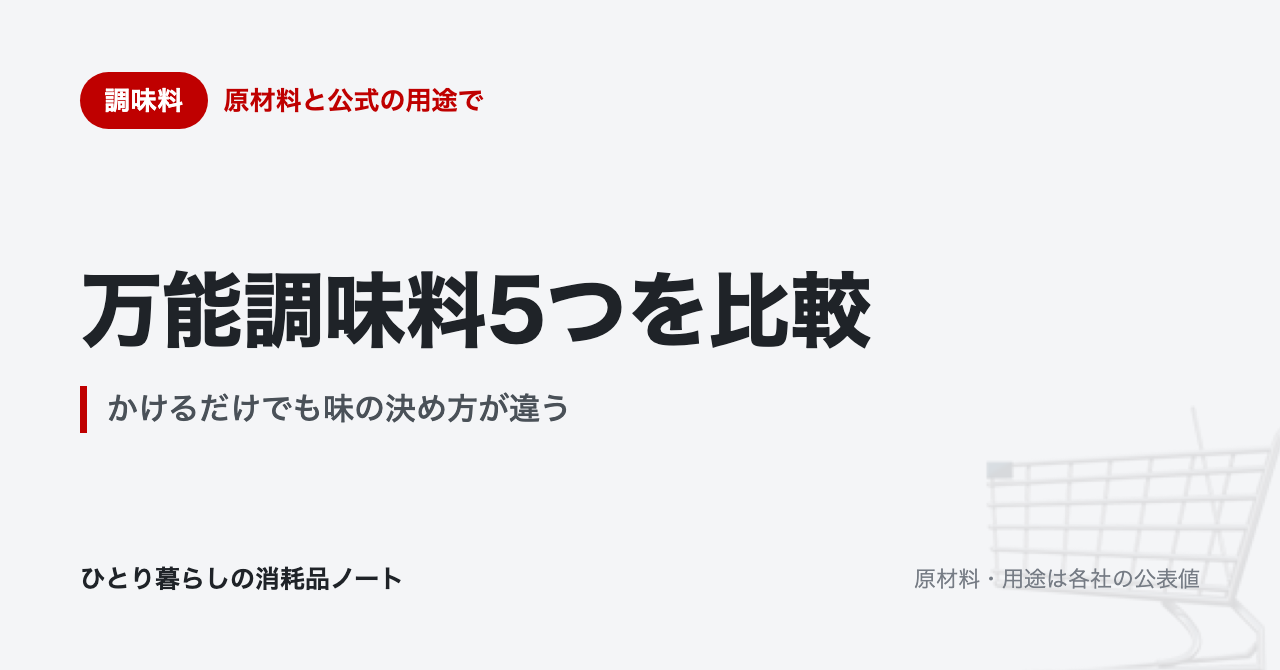
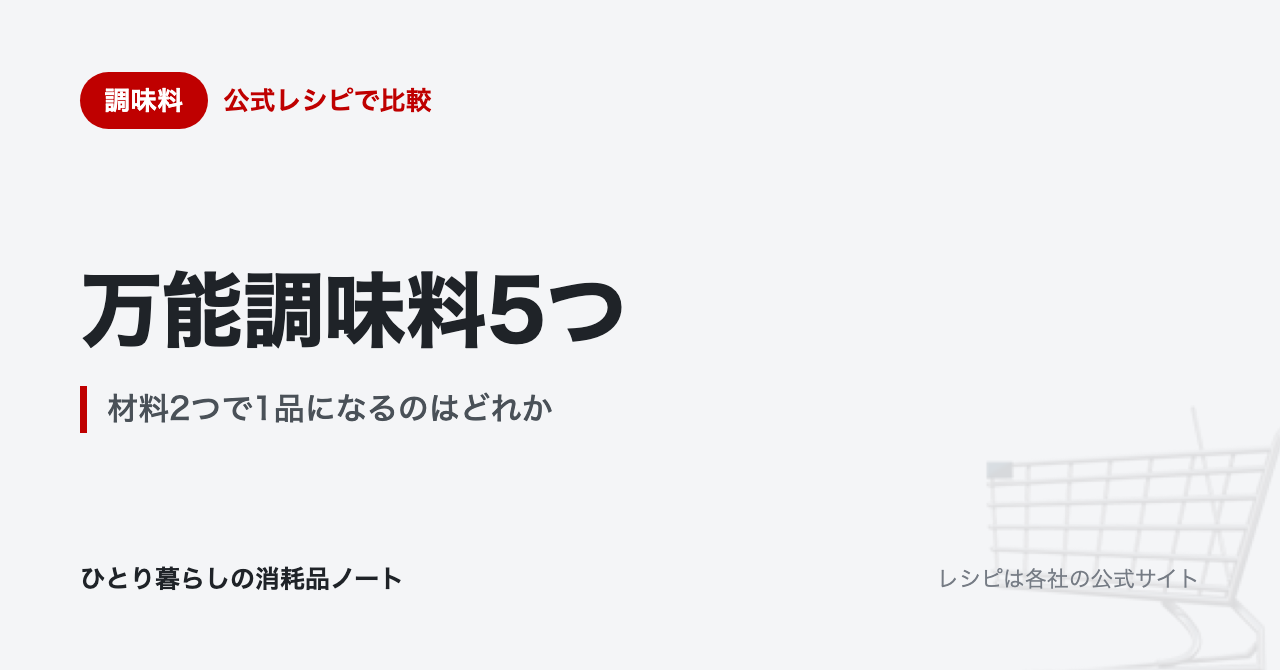
調味料の記事を、公式レシピ軸に全面書き直し
前の版は原材料表示と塩分を並べたスペック表だった。運営者から
「一人暮らしに内容量や原材料はどうでもいい」「公式で案内している
料理の実践はどうか」と指摘を受けて、軸ごと入れ替えた。

各社の公式レシピを引いて、材料の数と手順の数を数えた:
- 創味シャンタン: お湯400mL＋8g、かき混ぜる（材料2・手順1）
- クレイジーソルト: ご飯200g＋1.5g、混ぜて握る（材料2・手順2）
  ※公式レシピはオーガニック版のもの。記事内に明記
- カンタン酢: きゅうり＋100mL、30分漬ける（材料2・手順2）
- ほりにし / 南の極み: 公式に分量つきレシピの掲載なし

「これ1本で味が決まる」には2種類あった。公式が作り方まで示すものと、
かけて終わるのでレシピが要らないもの。そこが選ぶ基準になる。

味の評価は引き続き書いていない（食べ比べていないため）。

diff --git a/content/seasoning-allinone.md b/content/seasoning-allinone.md
@@ -1,6 +1,6 @@
 ---
-title: 万能調味料5つを比較｜かけるだけでも味の決め方が違う
-description: かけるだけで味が決まる万能調味料5つを、メーカー公式の用途と原材料表示で整理しました。カンタン酢・南の極み・ほりにし・クレイジーソルト・創味シャンタン。原材料の1番目を見ると、何で味を決めている調味料かが分かります。味の評価はしていません。
+title: 万能調味料5つ｜材料2つで1品になるのはどれか
+description: かけるだけで味が決まる万能調味料5つを、メーカー公式レシピで比較。創味シャンタンは材料2つ・手順1つ、カンタン酢ときゅうりで手順2つ。ほりにしと南の極みは公式にレシピがありません。何が作れるかで選べるように整理しました。
 category: 調味料
 date: '2026-09-05'
 updated: '2026-09-05'
@@ -8,133 +8,126 @@ keyword: 万能調味料
 keywordAlt: [調味料]
 ---
 
-「これをかけておけば味が決まる」という調味料を5つ調べました。
+「これ1本で味が決まる」と書いてある調味料を買っても、**結局それで何を作るのかが分からない**まま棚に残ります。
 
-**先に断っておきます。この記事に「おいしい」とは書きません。** 私はこの5つを食べ比べていないので、書けば嘘になります。
+そこで5つについて、**メーカーが公式に出しているレシピ**を引いてきました。材料が何個で、手順が何回かまで数えています。
 
-代わりに原材料表示とメーカー公式の用途を並べました。かけるだけの調味料でも、**何で味を決めているかは全部違います**。そこが分かれば、自分の料理に合うものは選べます。
+**先に結論。いちばん手が少ないのは創味シャンタンでした。** お湯400mLに8gを入れてかき混ぜるだけで、スープが1品できます。
 
-## 万能調味料5つは、味の決め方が違う
+## 万能調味料5つ、公式レシピで作れるもの
 
-| 商品 | 価格 | 何で味を決めているか | 原材料の1番目 |
-|---|---|---|---|
-| [ミツカン カンタン酢 1L](https://hb.afl.rakuten.co.jp/hgc/g00r136m.p2w40bcb.g00r136m.p2w41b76/?pc=https%3A%2F%2Fitem.rakuten.co.jp%2Frakuten24%2Fe365945h%2F&m=http%3A%2F%2Fm.rakuten.co.jp%2Frakuten24%2Fi%2F10318308%2F&rafcid=wsc_i_is_eba6f22c-fbb8-45a0-b880-b4616efeee39) | 813円 | 酸味と甘み | 食酢 |
-| [南の極み 天日塩 さらさら小粒 500g](https://hb.afl.rakuten.co.jp/hgc/g00txs3m.p2w40cd7.g00txs3m.p2w41100/?pc=https%3A%2F%2Fitem.rakuten.co.jp%2Ftoppo888%2F10001539%2F&m=http%3A%2F%2Fm.rakuten.co.jp%2Ftoppo888%2Fi%2F10005916%2F&rafcid=wsc_i_is_eba6f22c-fbb8-45a0-b880-b4616efeee39) | 928円 | 塩だけ | 海水 |
-| [アウトドアスパイス ほりにし 100g](https://hb.afl.rakuten.co.jp/hgc/g00rynym.p2w4091a.g00rynym.p2w41d56/?pc=https%3A%2F%2Fitem.rakuten.co.jp%2Fhighball%2Fhorinishi-001%2F&m=http%3A%2F%2Fm.rakuten.co.jp%2Fhighball%2Fi%2F10223075%2F&rafcid=wsc_i_is_eba6f22c-fbb8-45a0-b880-b4616efeee39) | 864円 | 塩とスパイス21種 | 食塩 |
-| [ジェーン クレイジーソルト 100g](https://hb.afl.rakuten.co.jp/hgc/g00q6lsm.p2w40449.g00q6lsm.p2w41738/?pc=https%3A%2F%2Fitem.rakuten.co.jp%2Fkitchen-garden%2F793441%2F&m=http%3A%2F%2Fm.rakuten.co.jp%2Fkitchen-garden%2Fi%2F10000524%2F&rafcid=wsc_i_is_eba6f22c-fbb8-45a0-b880-b4616efeee39) | 798円 | 岩塩とハーブ6種 | 岩塩 |
-| [創味シャンタン 粉末 500g](https://hb.afl.rakuten.co.jp/hgc/g00qq97m.p2w40c38.g00qq97m.p2w41053/?pc=https%3A%2F%2Fitem.rakuten.co.jp%2Fauc-plumterrace%2Fsoumisyantan500%2F&m=http%3A%2F%2Fm.rakuten.co.jp%2Fauc-plumterrace%2Fi%2F10001960%2F&rafcid=wsc_i_is_eba6f22c-fbb8-45a0-b880-b4616efeee39) | 1,290円 | うま味 | 食塩 |
+| 商品 | 価格 | 公式レシピ | 材料 | 手順 |
+|---|---|---|---|---|
+| [創味シャンタン 粉末 500g](https://hb.afl.rakuten.co.jp/hgc/g00qq97m.p2w40c38.g00qq97m.p2w41053/?pc=https%3A%2F%2Fitem.rakuten.co.jp%2Fauc-plumterrace%2Fsoumisyantan500%2F&m=http%3A%2F%2Fm.rakuten.co.jp%2Fauc-plumterrace%2Fi%2F10001960%2F&rafcid=wsc_i_is_eba6f22c-fbb8-45a0-b880-b4616efeee39) | 1,290円 | チャーハンについてくるスープ | 2つ | **1回** |
+| [ジェーン クレイジーソルト 100g](https://hb.afl.rakuten.co.jp/hgc/g00q6lsm.p2w40449.g00q6lsm.p2w41738/?pc=https%3A%2F%2Fitem.rakuten.co.jp%2Fkitchen-garden%2F793441%2F&m=http%3A%2F%2Fm.rakuten.co.jp%2Fkitchen-garden%2Fi%2F10000524%2F&rafcid=wsc_i_is_eba6f22c-fbb8-45a0-b880-b4616efeee39) | 798円 | クレイジーソルトのおにぎり | 2つ | 2回 |
+| [ミツカン カンタン酢 1L](https://hb.afl.rakuten.co.jp/hgc/g00r136m.p2w40bcb.g00r136m.p2w41b76/?pc=https%3A%2F%2Fitem.rakuten.co.jp%2Frakuten24%2Fe365945h%2F&m=http%3A%2F%2Fm.rakuten.co.jp%2Frakuten24%2Fi%2F10318308%2F&rafcid=wsc_i_is_eba6f22c-fbb8-45a0-b880-b4616efeee39) | 813円 | きゅうりのピクルス | 2つ | 2回（＋漬け30分） |
+| [アウトドアスパイス ほりにし 100g](https://hb.afl.rakuten.co.jp/hgc/g00rynym.p2w4091a.g00rynym.p2w41d56/?pc=https%3A%2F%2Fitem.rakuten.co.jp%2Fhighball%2Fhorinishi-001%2F&m=http%3A%2F%2Fm.rakuten.co.jp%2Fhighball%2Fi%2F10223075%2F&rafcid=wsc_i_is_eba6f22c-fbb8-45a0-b880-b4616efeee39) | 864円 | 公式サイトに掲載なし | — | — |
+| [南の極み 天日塩 さらさら小粒 500g](https://hb.afl.rakuten.co.jp/hgc/g00txs3m.p2w40cd7.g00txs3m.p2w41100/?pc=https%3A%2F%2Fitem.rakuten.co.jp%2Ftoppo888%2F10001539%2F&m=http%3A%2F%2Fm.rakuten.co.jp%2Ftoppo888%2Fi%2F10005916%2F&rafcid=wsc_i_is_eba6f22c-fbb8-45a0-b880-b4616efeee39) | 928円 | 公式サイトに掲載なし | — | — |
 
-> **この記事でやっていないこと**：味の食べ比べです。私はこの5つを比較して食べていないので、おいしさの順位は付けていません。書いているのは、メーカーが公表している原材料と用途だけです。
+> **材料の数え方**：調味料そのものを1つに数えています。「お好みで」と書かれている具材は数えていません。
 >
-> **価格は2026年9月5日時点**のもので、変動します。内容量が商品ごとに違うので、価格をそのまま比べても意味はありません。
+> **価格は2026年9月5日時点**のものです。内容量が商品ごとに違うので、価格をそのまま比べても意味はありません。
 
-## 原材料の1番目を見ると、性格が分かる
+## 創味シャンタン：お湯に入れてかき混ぜるだけ
 
-原材料表示は**使っている量が多い順**に並びます。つまり1番目を見れば、その調味料が何でできているかが分かります。
-
-```
-カンタン酢     食酢（醸造酢、米酢、りんご酢）
-南の極み      海水
-ほりにし      食塩
-クレイジーソルト  岩塩
-創味シャンタン   食塩（国内製造）
-```
-
-**5つのうち3つは、いちばん多い成分が塩です。** 「かけるだけで味が決まる」の正体は、多くの場合まず塩でした。
-
-そのうえで、塩に何を足しているかが分かれます。
-
-- **ほりにし**：食塩、ガーリック、黒コショウ、レッドベルペッパー、粉末醤油、コリアンダーなど21種類。醤油とチキン調味料が入るので和風寄りです
-- **クレイジーソルト**：岩塩、オニオン、ブラックペッパー、ガーリック、セロリシード、タイム、オレガノの7つだけ。ハーブが立ちます
-- **創味シャンタン**：食塩のあとにデキストリン、動物油脂、砂糖、畜肉エキス。油と肉のうま味を足しているのがこの中では独特です
-
-**南の極みだけ、原材料が1つです。** オーストラリアの塩田で海水を1年以上かけて濃縮した天日塩で、固結防止剤も入っていません（参考: [南の極み｜日仏貿易](https://nbkk.co.jp/minaminokiwami/)）。ただし公式サイトには「固結防止剤を含んでいないため、空気中の湿気をすって固まってしまうことがございます」とも書かれています。
-
-カンタン酢は、この中で唯一「塩が主役ではない」商品です。食酢に糖類と昆布だしを合わせてあり、酸味で味を決めます。
-
-## 塩分は、単位がそろっていません
-
-かけるだけの調味料なので塩分を並べようとしたのですが、**各社の表示の単位が違って、そのままでは比べられませんでした。**
-
-| 商品 | 公表されている食塩相当量 | 表示の単位 |
-|---|---|---|
-| ほりにし | 45.8g | 100gあたり |
-| 創味シャンタン 粉末 | 1.0g | 小さじ1（2.5g）あたり |
-| カンタン酢 | 0.71g | 大さじ1（15mL）あたり |
-| クレイジーソルト | 公式サイトに記載を確認できませんでした | — |
-| 南の極み | 公式サイトに記載を確認できませんでした | — |
-
-粉のもの2つは重さが基準なので、そろえられます。創味シャンタンの小さじ1で1.0gは、100gあたりに直すと40.0gです。
+創味食品が出している「チャーハンについてくるスープ」が、今回でいちばん手が少ないレシピでした。
 
 ```
-ほりにし     100gあたり 45.8g
-創味シャンタン  100gあたり 40.0g（小さじ1で1.0g からの換算）
+材料（2人前）  創味シャンタン 8g ／ お湯 400mL
+作り方      お湯に入れてかき混ぜる
 ```
 
-**どちらも半分近くが塩**でした。かけるだけで味が決まるのは当然とも言えます。
+火を使いません。 刻みネギや乾燥わかめ、ごま油は「お好み」で、なくても成立します（参考: [チャーハンについてくるスープ｜創味食品](https://www.somi.co.jp/recipe/13439/)）。
 
-カンタン酢は液体なので、重さの基準にそろえられません。この3つを1つの表で順位付けするのは無理です。 大さじ1で0.71gという数字だけ、そのまま受け取ってください。
+炒飯のほうも分量が公開されていて、**ご飯200gと具材に小さじ2杯**（5g）です。ご飯を炒めるついでにスープも作れるので、1本で主食と汁物が埋まります。
 
-## メーカーが挙げている使い方
+## クレイジーソルト：ご飯に混ぜて握るだけ
 
-「何にでも使える」と書いてある商品でも、公式が例に出す料理は違います。
+日本緑茶センターの「クレイジーソルトのおにぎり」です。
 
-| 商品 | 公式が挙げている用途 |
-|---|---|
-| カンタン酢 | 甘酢漬け、酢の物、寿司、ピクルス、マリネ、肉料理 |
-| 南の極み（さらさら小粒） | おにぎり、てんぷら |
-| ほりにし | BBQ、和食、洋食 |
-| クレイジーソルト | サラダ、加熱調理、食材の下ごしらえ |
-| 創味シャンタン 粉末 | 炒飯、炒め物、スープ、ソース、マリネ |
+```
+材料（2個分）  ご飯 200g ／ クレイジーソルト 1.5g
+作り方      ① 温かいご飯に入れて混ぜる
+          ② 2等分にして握る
+```
 
-カンタン酢と創味シャンタンは、分量まで公式が示しています。 カンタン酢は「砂糖、食塩などを合わせる必要がない」調味酢として、創味シャンタンは「炒飯ならご飯200gと具材に小さじ2杯（5g）」と書かれています。
+具はいりません。 塩むすびの塩をこれに変えるだけの形です（参考: [クレイジーソルトのおにぎり｜日本緑茶センター](https://www.jp-greentea.co.jp/recipe/4873/)）。
 
-南の極みは、粒の形で用途を分けています。 今回の「さらさら小粒」はおにぎりや天ぷら向けで、粒が粗いタイプは肉や魚の下味用と案内されています。同じ商品名でも、買う前に粒を確認してください。
+ひとつ注意があります。この公式レシピは「オーガニック クレイジーソルト」を使ったもので、今回の商品は通常版です。同じシリーズの別品番のレシピだと分かったうえで参考にしてください。
+
+## カンタン酢：切って漬けるだけ。ただし30分待つ
+
+ミツカンの「きゅうりのピクルス」です。
+
+```
+材料（2人分）  きゅうり 1と1/2本 ／ カンタン酢 100mL
+作り方      ① 容器の高さに合わせて切り、縦4等分にする
+          ② 容器に入れてカンタン酢を注ぎ、冷蔵庫で30分漬ける
+```
+
+ミツカンは調理時間を5分以内としています。ただし**漬ける30分はここに入っていません**（参考: [きゅうりのピクルス｜ミツカン](https://www.mizkan.co.jp/ouchirecipe/recipe/?menu_id=20230)）。
+
+つまり**食べたい30分前に仕込む必要があります。** 帰ってすぐ食べたい日には向きません。作り置きとして考えるほうが合っています。
+
+火を使うものなら「てりうまチキン」があり、鶏もも肉を焼いてカンタン酢を注ぎ、煮詰めるだけと案内されています。こちらも調味料は1本で済みます。
+
+## ほりにしと南の極みは、公式にレシピがありません
+
+この2つは、公式サイトを見ても分量つきの作り方が出てきませんでした。
+
+**ほりにし**の公式サイトにあるのは「キャンプやBBQの肉料理はもちろん魚・野菜等にもマッチング」という説明までです（参考: [アウトドアスパイスほりにし 公式](https://horinishi.jp/)）。
+
+**南の極み**も、日仏貿易のサイトで案内されているのは用途だけでした。今回の「さらさら小粒」はおにぎり・てんぷら向け、粒が粗いタイプは肉や魚の下味向けと書かれています（参考: [南の極み｜日仏貿易](https://nbkk.co.jp/minaminokiwami/)）。
+
+これは手抜きではなく、性格の違いだと思います。 かけて終わる調味料に、作り方を説明する必要がないからです。
+
+裏を返すと、**この2つは「何を作るか」を自分で決められる人向け**です。焼いた肉や野菜に振る使い方が決まっているなら強いですが、献立から迷っている段階だと手が止まります。
 
 ## この記事で分からないこと
 
-- **どれがおいしいか**：食べ比べていません。味の順位は付けていません
-- **クレイジーソルトと南の極みの塩分**：公式サイトで数値を確認できませんでした。パッケージの表示をご覧ください
-- **1回あたりの金額**：かける量が人によって違うので、出していません。内容量も商品ごとに違います
+- **どれがおいしいか**：私はこの5つを食べ比べていません。味の順位は付けていません
+- **公式レシピ以外の使い道**：ここに載せたのはメーカーが公表しているものだけです。実際にはもっと使えます
+- **ほりにしと南の極みの具体的な分量**：公式に記載がないため、書いていません
 
 ## よくある質問
 
-**Q. 1本だけ買うなら、どれを選べばいいですか？**
-A. 作る料理で変わります。**炒め物やチャーハンが多いなら創味シャンタン**、焼いた肉や野菜が多いならほりにしかクレイジーソルト、さっぱりした副菜を増やしたいならカンタン酢です。用途がいちばん狭いのは南の極みで、これは塩なので他の調味料と役割が重なりません。
+**Q. 自炊が続きません。1本だけ買うならどれですか？**
+A. **創味シャンタンです。** お湯に入れてかき混ぜるだけでスープが1品になり、火も包丁も使いません。炒飯の分量も公式に出ているので、主食と汁物の両方が埋まります。
 
-**Q. ほりにしとクレイジーソルトは何が違いますか？**
-A. 入っているものの数と系統です。**ほりにしは21種類で、粉末醤油とチキン調味料が入るぶん和風寄り**。クレイジーソルトは岩塩＋ハーブ6種のみで、タイムやオレガノが立つ洋風寄りです。どちらも1番多い成分は塩でした。
+**Q. 帰ってすぐ食べたいのですが、カンタン酢は使えますか？**
+A. ピクルスは**漬けるのに30分かかります。** その日に食べたいなら、鶏もも肉を焼いてカンタン酢で煮詰める「てりうまチキン」のほうが向いています。
 
-**Q. 塩分が気になります。どれが低いですか？**
-A. **比べられません。** 各社の表示の単位が違い、2商品は公式サイトに数値がありませんでした。粉の2つだけ100gあたりでそろえると、ほりにし45.8g、創味シャンタン40.0gです。
+**Q. ほりにしとクレイジーソルト、どちらを買えばいいですか？**
+A. 公式レシピの有無で選べます。作り方まで示されているのはクレイジーソルトで、おにぎりのように分量つきのレシピがあります。ほりにしは「焼いたものに振る」使い方が自分の中で決まっている人向けです。
 
-**Q. 南の極みが固まってしまいました**
-A. 日仏貿易の公式サイトに、固結防止剤を使っていないため湿気で固まることがあると書かれています。不良ではありません。
+**Q. 南の極みは普通の塩と何が違いますか？**
+A. 日仏貿易によると、オーストラリアの塩田で海水を1年以上かけて濃縮した天日塩で、固結防止剤を使っていません。そのぶん「湿気をすって固まってしまうことがございます」とも書かれています。不良ではありません。
 
-**Q. 自炊が続かないのですが、調味料を増やせば解決しますか？**
-A. 調味料は味付けの手間を減らしますが、作る手間そのものは変わりません。そこが原因なら[食材宅配3社の比較](/articles/meal-delivery)のほうが近いです。切る工程ごと減らせます。
+**Q. 調味料を増やせば自炊は続きますか？**
+A. 味付けの手間は減りますが、買う・切る・洗うの手間は変わりません。そこで止まっているなら[食材宅配3社の比較](/articles/meal-delivery)のほうが近い解決です。切る工程ごと減らせます。
 
 ## まとめ
 
-- **5つのうち3つは、いちばん多い成分が塩**でした
-- **ほりにしは21種類、クレイジーソルトは7つ**と、足しているものの数が違います
-- **創味シャンタンだけ、油と肉のうま味を足しています**
-- **南の極みは原材料が海水だけ**で、固結防止剤も入っていません
-- **塩分は表示の単位がそろわず、5つを並べて比べられませんでした**
+- **手が最も少ないのは創味シャンタン**。お湯400mLに8gを入れてかき混ぜるだけです
+- **クレイジーソルトはご飯200gに1.5g**。混ぜて握ればおにぎりになります
+- **カンタン酢は漬けるのに30分**かかります。その日にすぐ、とはいきません
+- **ほりにしと南の極みは、公式に分量つきのレシピがありません**。かけ方が決まっている人向けです
 
-味の評価はしていないので、この記事で決められるのは「自分の作る料理に合うのはどれか」までです。そこから先は、実際にかけてみてください。
+今日から使いたいなら創味シャンタン、作り置きを増やしたいならカンタン酢、焼いたものに振るだけで良いならほりにしか南の極み、という分かれ方でした。
 
-洗い物が増えるのが面倒で自炊が止まるなら、[食器用洗剤6商品の比較](/articles/dish-soap)や[食洗機用洗剤5商品の比較](/articles/dishwasher-detergent)もあわせてどうぞ。
+洗い物が増えて自炊が止まるなら、[食器用洗剤6商品の比較](/articles/dish-soap)や[食洗機用洗剤5商品の比較](/articles/dishwasher-detergent)もあわせてどうぞ。
 
 ---
 
 ### 参考文献・情報源
 
-- カンタン酢の原材料・食塩相当量・用途：[カンタン酢｜ミツカングループ](https://www.mizkan.co.jp/kantansu-series/)（大さじ1杯15mLあたり食塩相当量0.71g）
-- 南の極みの製法・原材料・用途：[南の極み｜日仏貿易](https://nbkk.co.jp/minaminokiwami/)（固結防止剤不使用、さらさら小粒はおにぎり・てんぷら向け）
-- ほりにしの原材料・栄養成分：[アウトドアスパイスほりにし 公式](https://horinishi.jp/)（100gあたり食塩相当量45.8g）
-- クレイジーソルトの原材料・用途：[クレイジーソルト｜日本緑茶センター](https://www.jp-greentea.co.jp/products/krazysalt/)（岩塩＋ハーブ6種）
-- 創味シャンタン 粉末タイプの原材料・食塩相当量・用途：[創味シャンタン 粉末タイプ｜創味食品](https://www.somi.co.jp/product/seasoning/syantan-powder/)（小さじ1杯2.5gあたり食塩相当量1.0g）
+- 創味シャンタンのレシピと分量：[チャーハンについてくるスープ｜創味食品](https://www.somi.co.jp/recipe/13439/)（創味シャンタン8g・お湯400mL／2人前）
+- 創味シャンタン 粉末タイプの用途：[創味シャンタン 粉末タイプ｜創味食品](https://www.somi.co.jp/product/seasoning/syantan-powder/)（炒飯はご飯200gと具材に小さじ2杯）
+- クレイジーソルトのレシピ：[クレイジーソルトのおにぎり｜日本緑茶センター](https://www.jp-greentea.co.jp/recipe/4873/)（ご飯200g・オーガニック クレイジーソルト1.5g／2個分）
+- カンタン酢のレシピ：[きゅうりのピクルス｜ミツカン](https://www.mizkan.co.jp/ouchirecipe/recipe/?menu_id=20230)（きゅうり1と1/2本・カンタン酢100mL／2人分・調理時間5分以内）
+- カンタン酢の用途：[カンタン酢｜ミツカングループ](https://www.mizkan.co.jp/kantansu-series/)（てりうまチキン、鶏のさっぱり煮ほか）
+- ほりにしの用途：[アウトドアスパイスほりにし 公式](https://horinishi.jp/)
+- 南の極みの用途と製法：[南の極み｜日仏貿易](https://nbkk.co.jp/minaminokiwami/)（固結防止剤不使用、さらさら小粒はおにぎり・てんぷら向け）
 - 価格・レビュー：楽天市場の商品データ（2026年9月5日時点）
 
-*原材料と栄養成分は各メーカーの公表値です。商品のリニューアルで変わることがあるので、購入前にパッケージの表示をご確認ください。この記事は味の評価をしていません。*
+*レシピの材料と分量は各メーカーの公表値です。商品のリニューアルで変わることがあります。この記事は味の評価をしていません。*

diff --git a/pins/POST.md b/pins/POST.md
@@ -5,7 +5,7 @@
 
 投稿したら「済」にチェックを入れて進捗を管理できます。
 
-## 万能調味料5つを比較｜かけるだけでも味の決め方が違う
+## 万能調味料5つ｜材料2つで1品になるのはどれか
 
 - ボード: **キッチンの時短**
 - リンク先: https://hitorikurashi-note.vercel.app/articles/seasoning-allinone
@@ -14,33 +14,33 @@
 
 **タイトル**
 ```
-万能調味料5つを比較 5件の価格一覧
+万能調味料5つ 5件の価格一覧
 ```
 **説明文**
 ```
-万能調味料5つを比較を価格の安い順に並べました。ジェーン クレイジーソルト 100g 798円／ミツカン カンタン酢 1L 813円／アウトドアスパイス ほりにし 100g 864円／南の極み 天日塩 さらさら小粒 500g 928円／創味シャンタン 粉末 500g 1,290円。実際の価格とレビューをもとに比較しています。#調味料 #万能調味料 #自炊 #一人暮らし #時短ごはん
+万能調味料5つを価格の安い順に並べました。ジェーン クレイジーソルト 100g 798円／ミツカン カンタン酢 1L 813円／アウトドアスパイス ほりにし 100g 864円／南の極み 天日塩 さらさら小粒 500g 928円／創味シャンタン 粉末 500g 1,290円。実際の価格とレビューをもとに比較しています。#調味料 #万能調味料 #自炊 #一人暮らし #時短ごはん
 ```
 
 ### [ ] 価格訴求（画像: `pins/seasoning-allinone-price.png`）
 
 **タイトル**
 ```
-万能調味料5つ 3つは主成分が塩
+万能調味料5つ 材料2つで1品になる
 ```
 **説明文**
 ```
-万能調味料5つ3つは主成分が塩｜かけるだけの正体は塩だった。ほりにしは100gあたり食塩45.8g。創味シャンタンは40.0g。南の極みは原材料が海水だけ。 実際の価格とレビューをもとに6商品を比較しました。#調味料 #万能調味料 #自炊 #一人暮らし #時短ごはん
+万能調味料5つ材料2つで1品になる｜公式レシピで手順の数を比べた。創味シャンタンはお湯400mLに8g。混ぜるだけ。手順は1回。火も包丁も使いません。 実際の価格とレビューをもとに6商品を比較しました。#調味料 #万能調味料 #自炊 #一人暮らし #時短ごはん
 ```
 
 ### [ ] 比較訴求（画像: `pins/seasoning-allinone-compare.png`）
 
 **タイトル**
 ```
-味の決め方が 5つとも違う
+1本で味が決まる の中身は2種類
 ```
 **説明文**
 ```
-味の決め方が5つとも違う｜原材料の1番目を見れば分かる。カンタン酢は食酢（酸味で決める）。ほりにしは21種、クレソルは7つ。シャンタンだけ油と肉のうま味。 実際の価格とレビューをもとに6商品を比較しました。#調味料 #万能調味料 #自炊 #一人暮らし #時短ごはん
+1本で味が決まるの中身は2種類｜公式にレシピがある側とない側。シャンタン・クレソル・カンタン酢は分量つき。ほりにしと南の極みは掲載なし。かけて終わるものに作り方は要らない。 実際の価格とレビューをもとに6商品を比較しました。#調味料 #万能調味料 #自炊 #一人暮らし #時短ごはん
 ```
 
 ---
